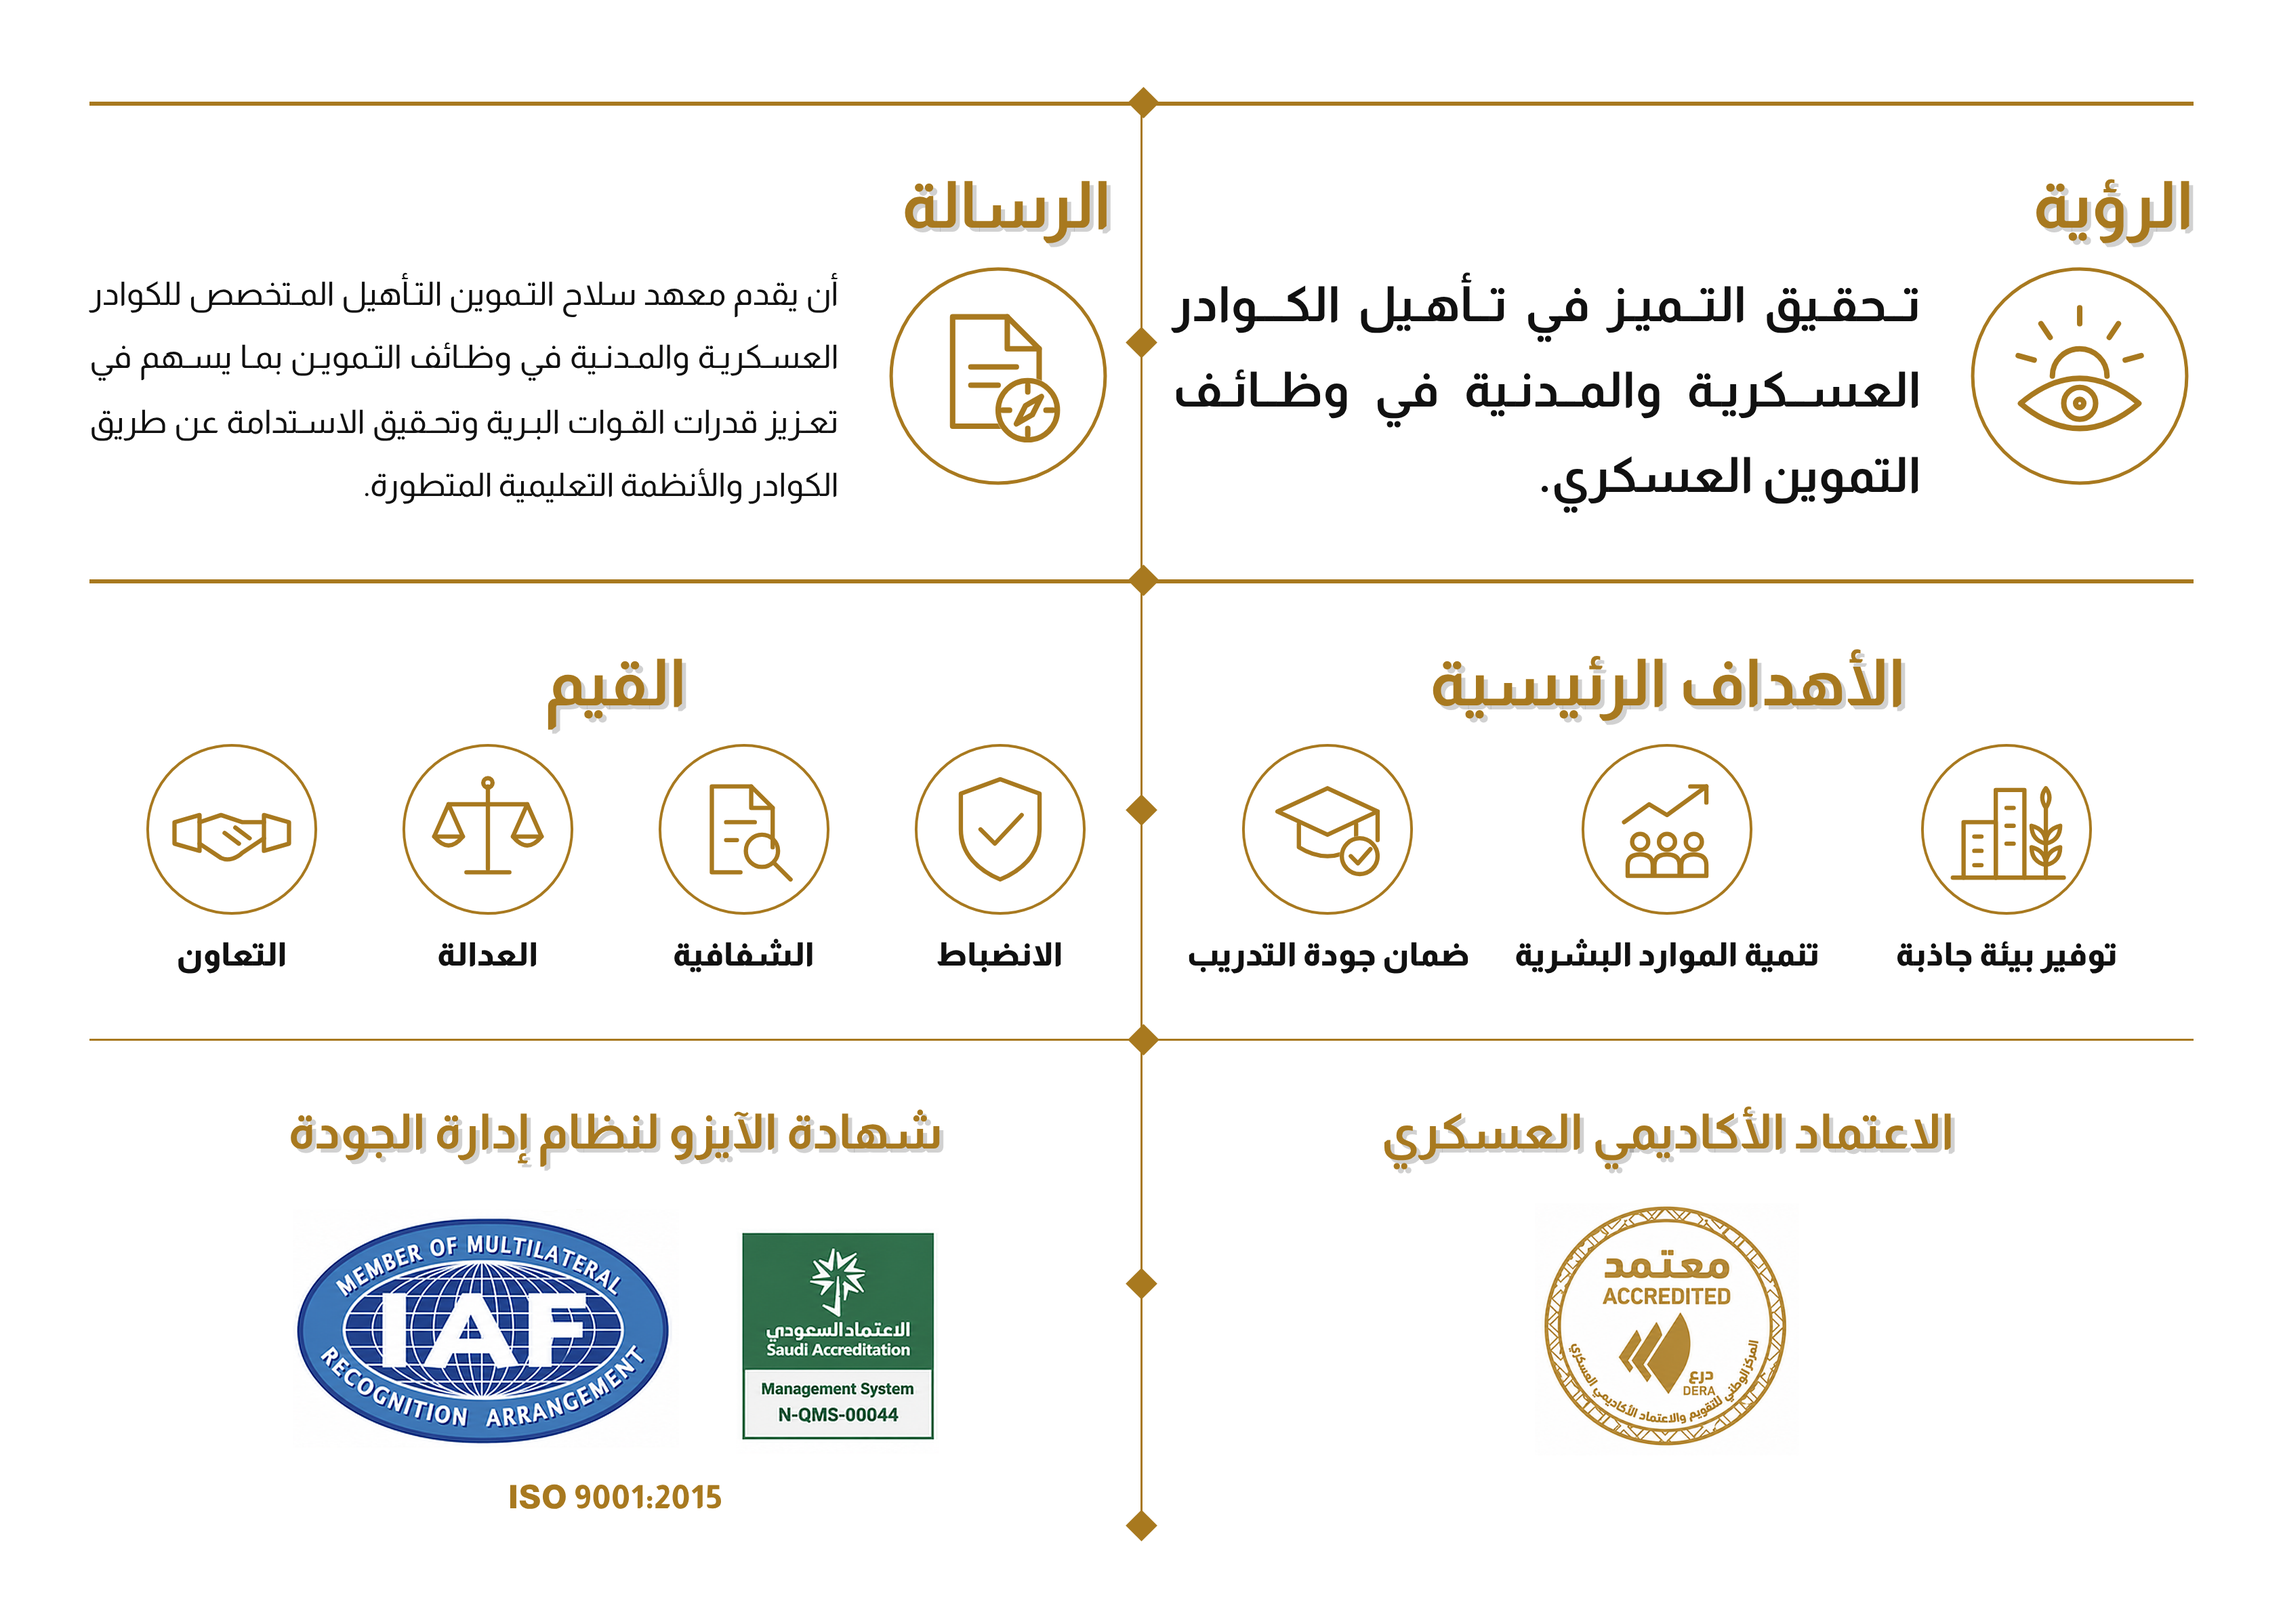
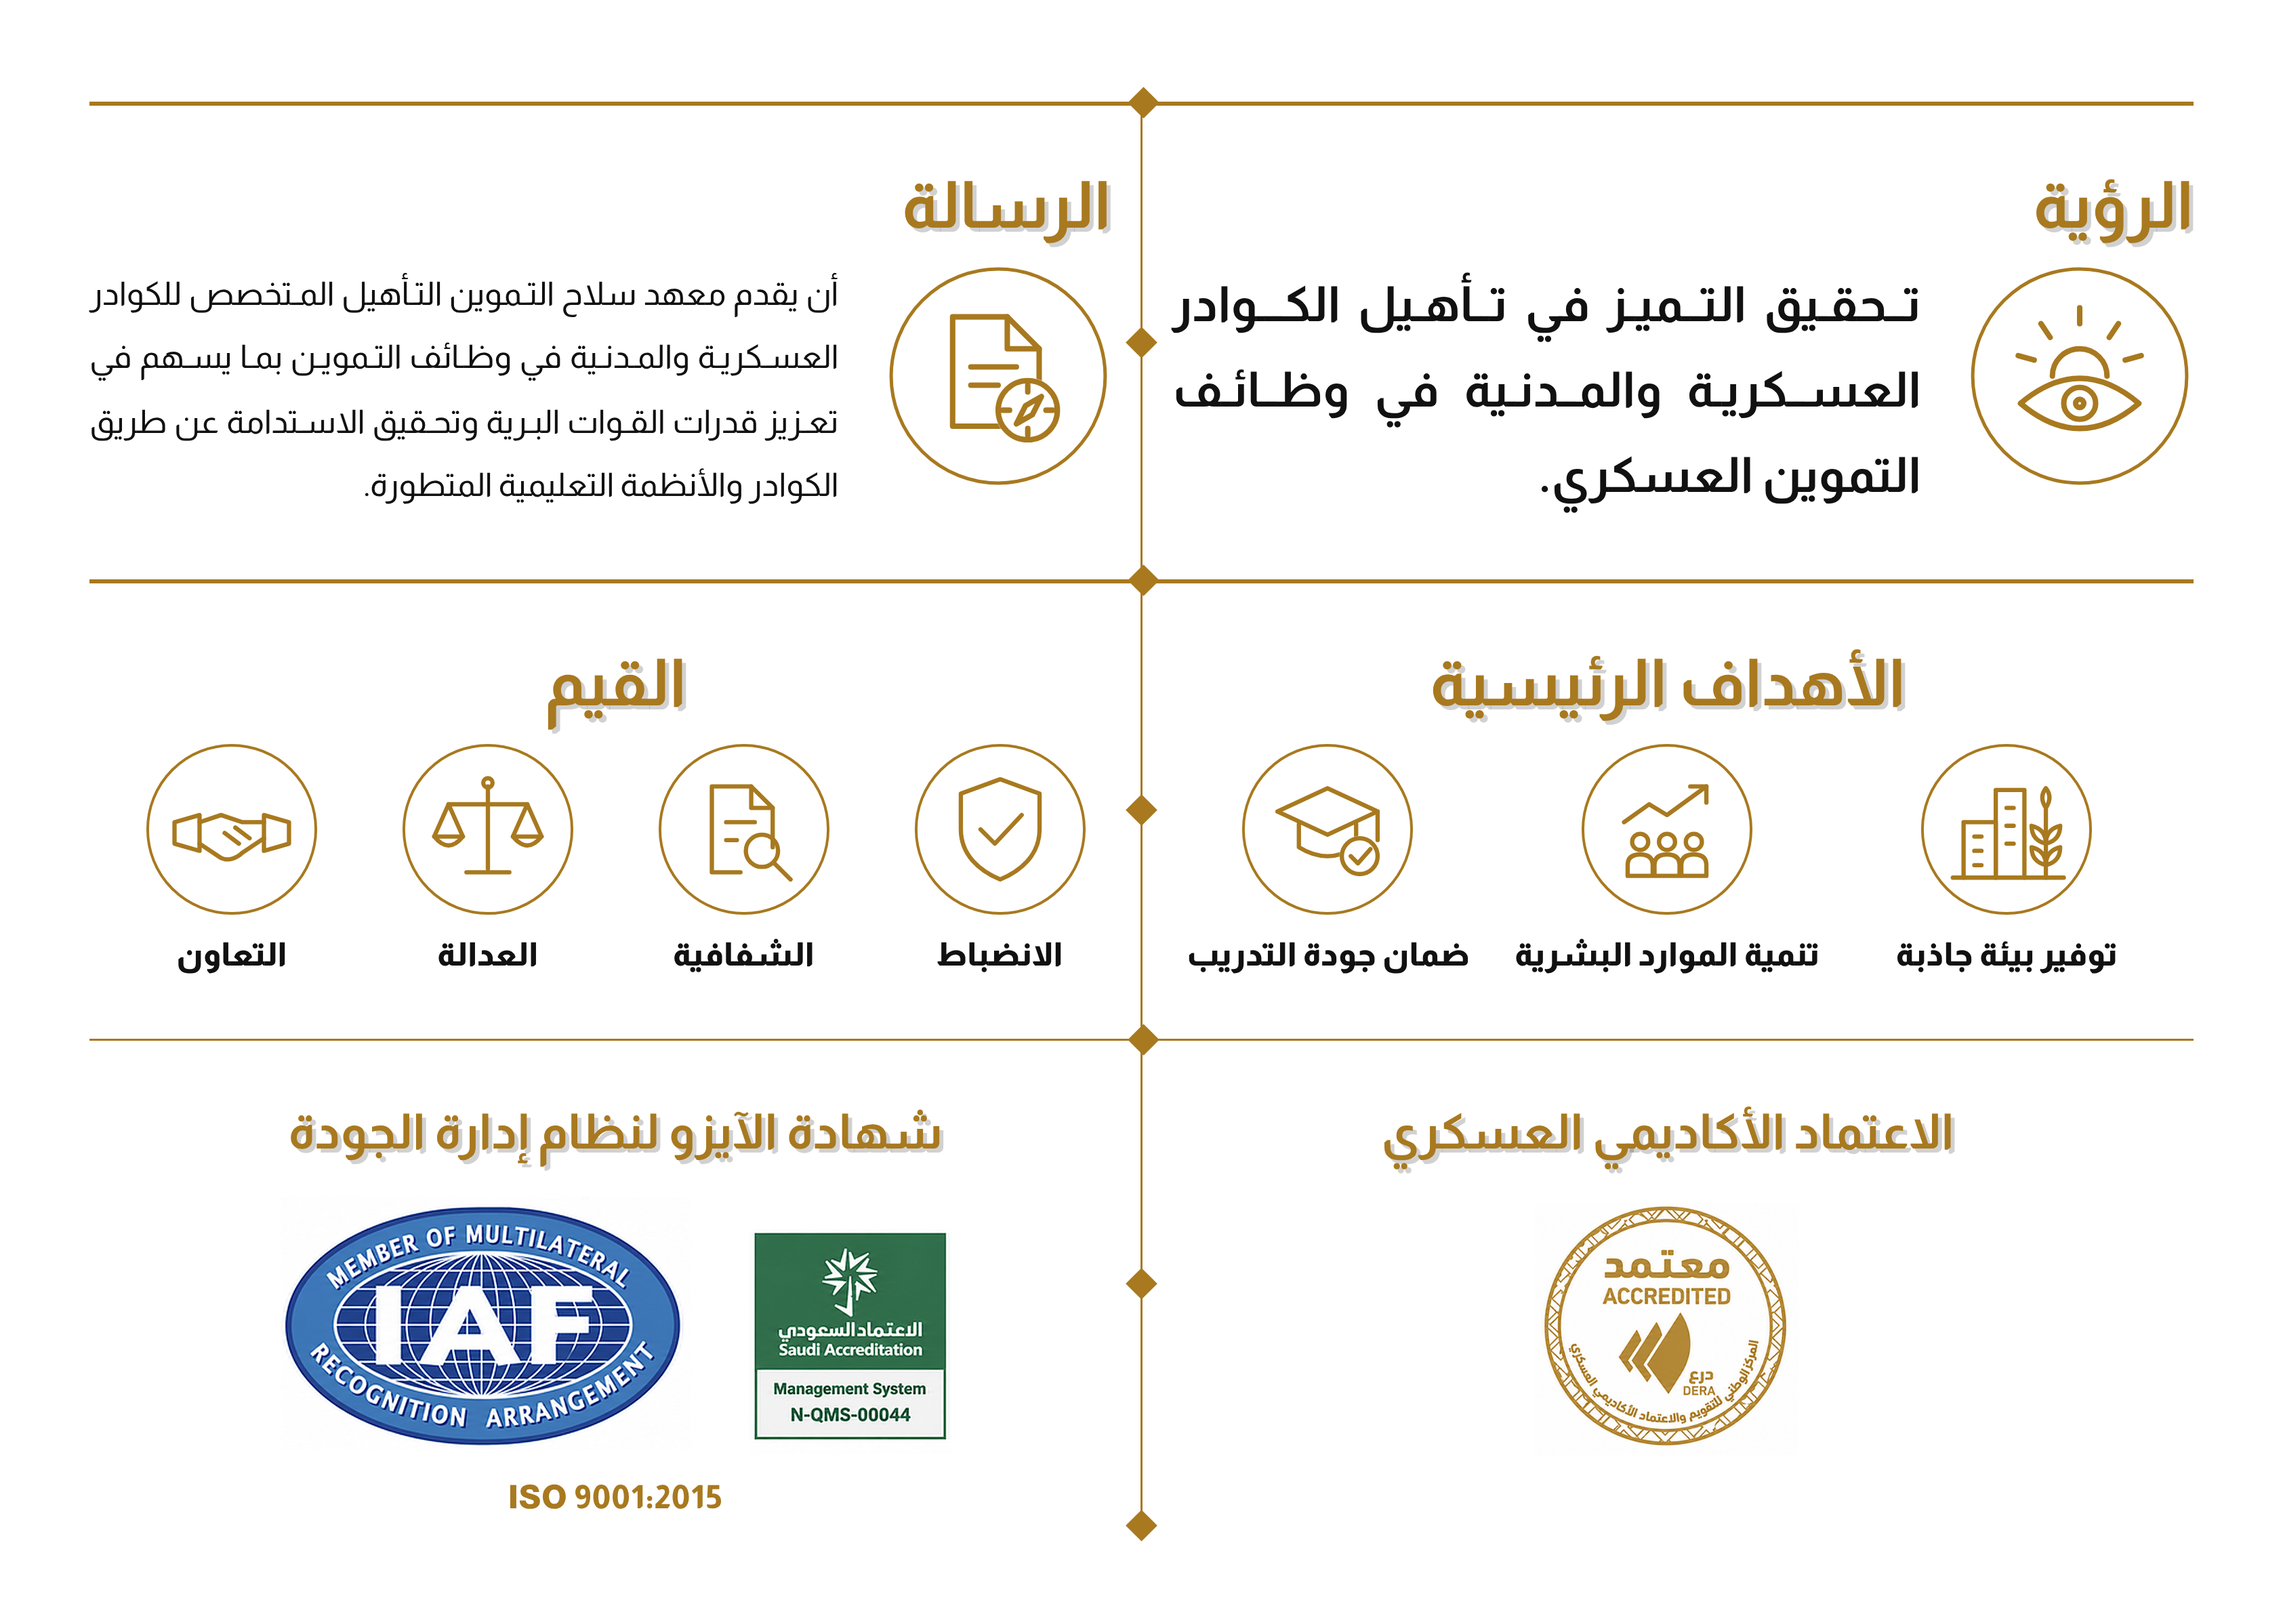
Match seal and IAF visible height so baseline and center line up
Claude-Session: https://claude.ai/code/session_01HHtdcPQB4WrWFBfNpP3BhG

Changed region(s): [[0.1247, 0.7456, 0.4363, 0.9009]]

diff --git a/infographic/index.html b/infographic/index.html
@@ -48,7 +48,7 @@
   .media img{mix-blend-mode:multiply;height:auto}
   #military .media img{height:124px;width:auto;margin-bottom:-8px}
   #isocert .media img:nth-child(1){width:100px;margin-bottom:-6.6px}
-  #isocert .media img:nth-child(2){width:190px;margin-bottom:-3.9px}
+  #isocert .media img:nth-child(2){width:202.3px;margin-bottom:-5.1px}
   .tag{height:26px;margin-top:16px;font-size:16px;line-height:26px;color:var(--gold);text-align:center;direction:ltr;letter-spacing:.3px}
 </style>
 </head>
